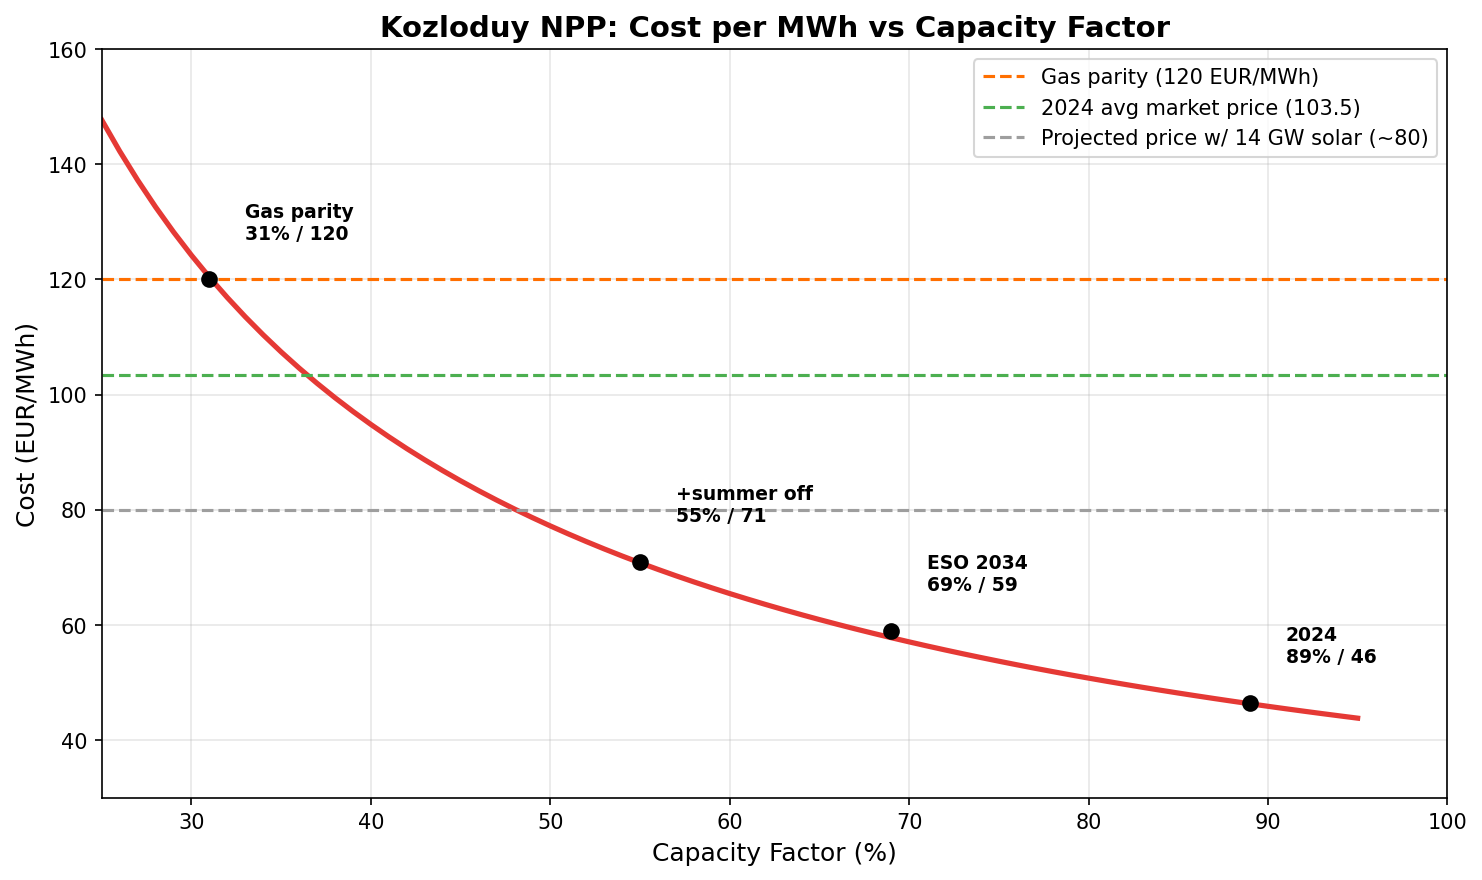
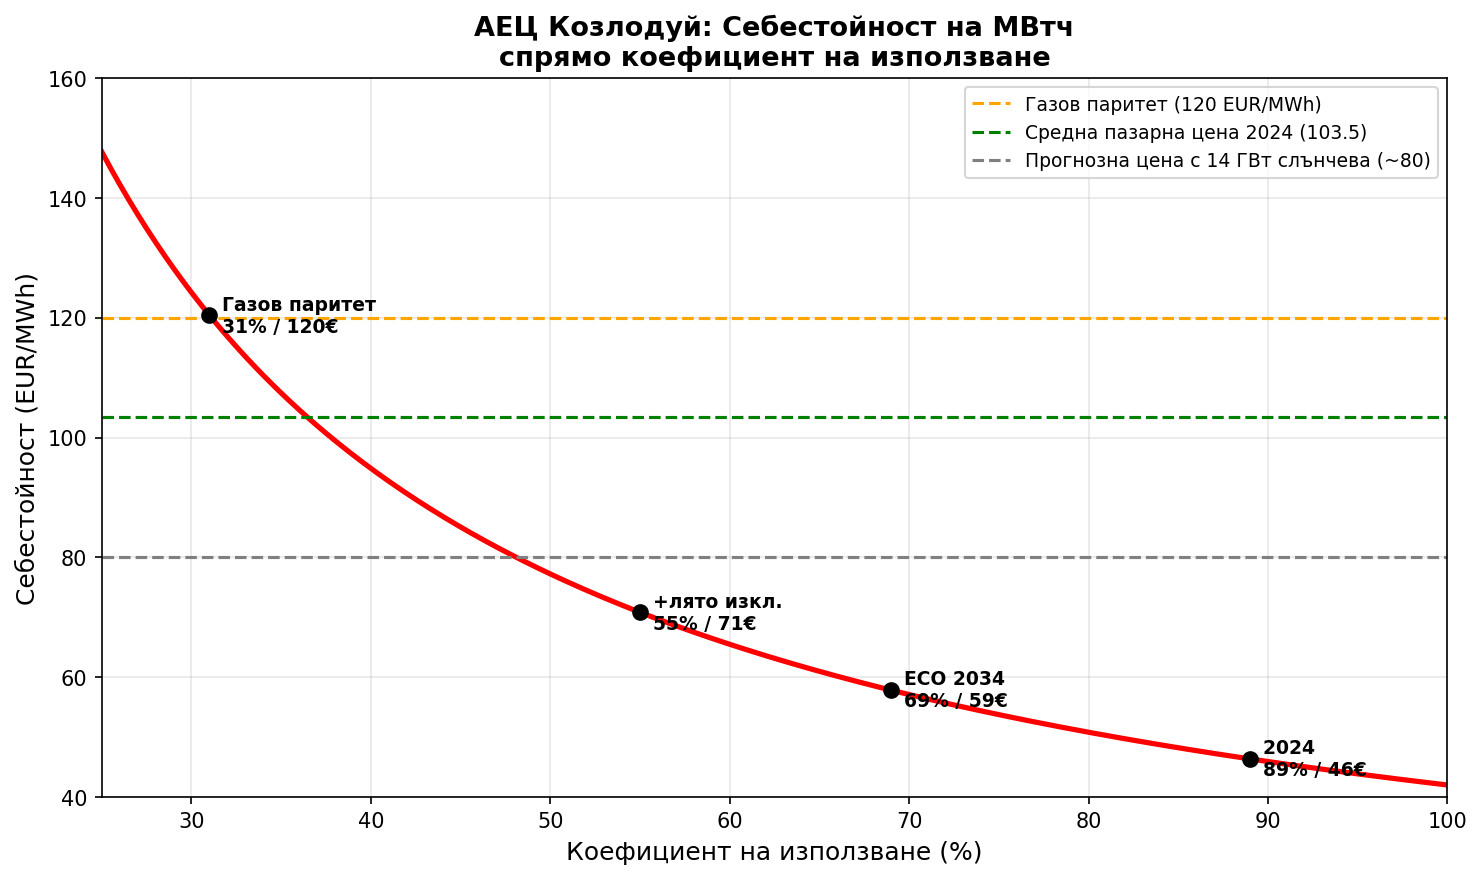
Translate all 3 charts to Bulgarian
- АЕЦ Козлодуй: себестойност на МВтч спрямо коефициент на използване
- 15 февруари 2026: България срещу Румъния — цени
- Ядрена печалба по оперативна стратегия

Add make_charts_bg.py as the canonical chart generation script

diff --git a/make_charts_bg.py b/make_charts_bg.py
@@ -1,0 +1,312 @@
+#!/usr/bin/env python3
+"""
+Generate the 3 article charts with Bulgarian labels.
+
+Charts produced:
+  charts/cost_vs_cf.png         — себестойност спрямо коефициент на използване
+  charts/feb15_2026_prices.png  — цени на 15 февруари 2026
+  charts/strategy_comparison.png — печалба по стратегия
+"""
+import json
+import numpy as np
+import matplotlib
+matplotlib.use('Agg')
+import matplotlib.pyplot as plt
+from datetime import datetime, timedelta
+from collections import defaultdict
+
+CHART_DIR = '/home/yyoncho/Sources/claude/nuclear-economics-bg/charts'
+
+# ── shared helpers ──────────────────────────────────────────────────────────
+
+def get_text(v):
+    if isinstance(v, dict):
+        return v.get('text', '') or v.get('#text', '')
+    return str(v) if v else ''
+
+def ensure_list(obj):
+    if obj is None:
+        return []
+    if isinstance(obj, list):
+        return obj
+    return [obj]
+
+def load_entsoe_prices(path):
+    with open(path) as f:
+        d = json.load(f)
+    prices = {}
+    for ts in ensure_list(d.get('prices', {}).get('TimeSeries', [])):
+        for p in ensure_list(ts.get('Period', {})):
+            ti = p.get('timeInterval', {})
+            start = get_text(ti.get('start', '')) if isinstance(ti, dict) else ''
+            if not start:
+                continue
+            start_dt = datetime.fromisoformat(start.replace('Z', '+00:00'))
+            for pt in ensure_list(p.get('Point', [])):
+                pos = int(get_text(pt.get('position', '0')))
+                price_raw = pt.get('price.amount')
+                if price_raw is None:
+                    price_raw = pt.get('price', {})
+                val = float(get_text(price_raw))
+                hour_dt = start_dt + timedelta(hours=pos - 1)
+                key = hour_dt.strftime('%Y-%m-%d %H:00')
+                prices[key] = val
+    return prices
+
+
+# ── Chart 1: Себестойност на МВтч спрямо коефициент на използване ──────────
+
+NUCLEAR_FIXED_EUR = 617e6
+NUCLEAR_VAR_EUR_MWH = 6.8
+NUCLEAR_NAMEPLATE_MW = 2000
+HOURS_YEAR = 8760
+
+cfs = np.linspace(0.25, 1.0, 300)
+output_mwh = cfs * NUCLEAR_NAMEPLATE_MW * HOURS_YEAR
+cost_per_mwh = (NUCLEAR_FIXED_EUR + NUCLEAR_VAR_EUR_MWH * output_mwh) / output_mwh
+
+fig, ax = plt.subplots(figsize=(10, 6))
+ax.plot(cfs * 100, cost_per_mwh, 'r-', linewidth=2.5)
+
+# Reference lines
+ax.axhline(y=120, color='orange', linestyle='--', linewidth=1.5,
+           label='Газов паритет (120 EUR/MWh)')
+ax.axhline(y=103.5, color='green', linestyle='--', linewidth=1.5,
+           label='Средна пазарна цена 2024 (103.5)')
+ax.axhline(y=80, color='gray', linestyle='--', linewidth=1.5,
+           label='Прогнозна цена с 14 ГВт слънчева (~80)')
+
+# Key points
+key_points = [
+    (0.31, '  Газов паритет\n  31% / 120€'),
+    (0.55, '  +лято изкл.\n  55% / 71€'),
+    (0.69, '  ЕСО 2034\n  69% / 59€'),
+    (0.89, '  2024\n  89% / 46€'),
+]
+for cf_val, label in key_points:
+    out = cf_val * NUCLEAR_NAMEPLATE_MW * HOURS_YEAR
+    cost = (NUCLEAR_FIXED_EUR + NUCLEAR_VAR_EUR_MWH * out) / out
+    ax.plot(cf_val * 100, cost, 'ko', markersize=7)
+    ax.annotate(label, xy=(cf_val * 100, cost), fontsize=9, fontweight='bold',
+                va='center')
+
+ax.set_xlabel('Коефициент на използване (%)', fontsize=12)
+ax.set_ylabel('Себестойност (EUR/MWh)', fontsize=12)
+ax.set_title('АЕЦ Козлодуй: Себестойност на МВтч\nспрямо коефициент на използване',
+             fontsize=13, fontweight='bold')
+ax.legend(fontsize=9, loc='upper right')
+ax.set_xlim(25, 100)
+ax.set_ylim(40, 160)
+ax.grid(True, alpha=0.3)
+plt.tight_layout()
+plt.savefig(f'{CHART_DIR}/cost_vs_cf.png', dpi=150, bbox_inches='tight')
+plt.close()
+print(f'Saved: {CHART_DIR}/cost_vs_cf.png')
+
+
+# ── Chart 2: 15 февруари 2026 — България срещу Румъния ──────────────────────
+
+bg_prices = load_entsoe_prices('/home/yyoncho/Sources/claude/entso-e/data/BG/2026.json')
+ro_prices = load_entsoe_prices('/home/yyoncho/Sources/claude/entso-e/data/RO/2026.json')
+
+feb15_bg = {k: v for k, v in bg_prices.items() if k.startswith('2026-02-15')}
+feb15_ro = {k: v for k, v in ro_prices.items() if k.startswith('2026-02-15')}
+
+hours_list = sorted(feb15_bg.keys())
+bg_vals = [feb15_bg[k] for k in hours_list]
+ro_vals = [feb15_ro[k] for k in hours_list]
+hour_nums = list(range(len(hours_list)))
+
+avg_bg = np.mean(bg_vals)
+avg_ro = np.mean(ro_vals)
+
+fig, ax = plt.subplots(figsize=(12, 5))
+ax.fill_between(hour_nums, ro_vals, alpha=0.25, color='steelblue')
+ax.fill_between(hour_nums, bg_vals, alpha=0.35, color='slategray')
+ax.plot(hour_nums, bg_vals, 'r-o', linewidth=2, markersize=5, label='България')
+ax.plot(hour_nums, ro_vals, 'b-s', linewidth=2, markersize=5, label='Румъния')
+
+ax.text(9, avg_ro + 8, f'RO ср.: {avg_ro:.1f} EUR', color='blue',
+        fontsize=11, fontweight='bold')
+ax.text(3, avg_bg + 8, f'BG ср.: {avg_bg:.1f} EUR', color='red',
+        fontsize=11, fontweight='bold')
+
+ax.set_xlabel('Час на деня', fontsize=12)
+ax.set_ylabel('Цена ден напред (EUR/MWh)', fontsize=12)
+ax.set_title('15 февруари 2026: България срещу Румъния — Цени', fontsize=13, fontweight='bold')
+ax.legend(fontsize=11)
+ax.set_xticks(hour_nums)
+ax.set_xticklabels([str(h) for h in hour_nums], fontsize=8)
+ax.grid(True, alpha=0.3)
+plt.tight_layout()
+plt.savefig(f'{CHART_DIR}/feb15_2026_prices.png', dpi=150, bbox_inches='tight')
+plt.close()
+print(f'Saved: {CHART_DIR}/feb15_2026_prices.png')
+
+
+# ── Chart 3: Ядрена печалба по оперативна стратегия ─────────────────────────
+# Re-run the model to get fresh scenario data
+
+NUCLEAR_FIXED_EUR_MODEL = 617e6
+NUCLEAR_VAR_EUR_MWH_MODEL = 6.8
+NUCLEAR_NAMEPLATE_MW_MODEL = 2000
+COAL_FULL_COST = 88
+MERIT_SLOPE = 0.018
+BASE_SOLAR_GW = 5.3
+
+with open('/home/yyoncho/Sources/claude/nuclear-economics-bg/data/2025.json') as f:
+    data = json.load(f)
+hours_data = [h for h in data['hours'] if h.get('demand') and h.get('price') is not None]
+
+
+def get_month(h):
+    return int(h['t'][5:7])
+
+
+def get_hour_num(h):
+    return int(h['t'][11:13])
+
+
+def is_weekend(h):
+    dt = datetime.fromisoformat(h['t'].replace('Z', '+00:00'))
+    return dt.weekday() >= 5
+
+
+def model_prices(hours, solar_gw, battery_gwh):
+    solar_factor = solar_gw / BASE_SOLAR_GW
+    results = []
+    for h in hours:
+        solar_base = h.get('solar', 0) or 0
+        solar_new = solar_base * solar_factor
+        extra_solar = solar_new - solar_base
+        demand = h['demand']
+        price = h['price']
+
+        nuc_actual = h.get('nuclear', 0) or 0
+        nuc_shortfall = max(0, NUCLEAR_NAMEPLATE_MW_MODEL - nuc_actual)
+        price = max(0, price - nuc_shortfall * MERIT_SLOPE)
+
+        price_adj = max(price - extra_solar * MERIT_SLOPE, 0)
+        results.append({
+            't': h['t'], 'price': price_adj, 'demand': demand,
+            'solar': solar_new, 'month': get_month(h),
+            'hour': get_hour_num(h), 'weekend': is_weekend(h),
+            'nuclear': h.get('nuclear', 0) or 0,
+        })
+
+    if battery_gwh > 0:
+        battery_mwh = battery_gwh * 1000
+        battery_power_mw = battery_mwh / 4
+        efficiency = 0.875
+        CHARGE_THRESHOLD = 20
+        discharge_impact = battery_power_mw * MERIT_SLOPE
+        daily = defaultdict(list)
+        for i, h in enumerate(results):
+            daily[h['t'][:10]].append(i)
+        for day, indices in daily.items():
+            cheap_hours = sum(1 for idx in indices if results[idx]['price'] <= CHARGE_THRESHOLD)
+            charge_energy = min(battery_mwh, cheap_hours * battery_power_mw)
+            available_energy = charge_energy * efficiency
+            if available_energy <= 0:
+                continue
+            expensive = sorted(
+                [(idx, results[idx]['price']) for idx in indices],
+                key=lambda x: -x[1]
+            )
+            remaining = available_energy
+            for idx, price in expensive:
+                if remaining <= 0:
+                    break
+                discharge = min(battery_power_mw, remaining)
+                new_price = max(0, price - discharge * MERIT_SLOPE)
+                if new_price >= price:
+                    continue
+                results[idx]['price'] = new_price
+                remaining -= discharge
+    return results
+
+
+def compute_nuclear_economics(price_hours, strategy='full'):
+    summer = {6, 7, 8}
+    extended = {5, 6, 7, 8, 9}
+    shoulder = {4, 5, 9}
+    total_revenue = 0
+    total_output_mwh = 0
+    for h in price_hours:
+        month = h['month']
+        price = h['price']
+        if strategy == 'full':
+            nuc_mw = NUCLEAR_NAMEPLATE_MW_MODEL
+        elif strategy == 'reduced_summer':
+            nuc_mw = 1400 if month in summer else NUCLEAR_NAMEPLATE_MW_MODEL
+        elif strategy == 'reduced_extended':
+            nuc_mw = 1400 if month in extended else NUCLEAR_NAMEPLATE_MW_MODEL
+        elif strategy == 'one_off_summer':
+            nuc_mw = 1000 if month in summer else NUCLEAR_NAMEPLATE_MW_MODEL
+        elif strategy == 'one_off_extended':
+            nuc_mw = 1000 if month in extended else NUCLEAR_NAMEPLATE_MW_MODEL
+        elif strategy == 'combo':
+            if month in summer:
+                nuc_mw = 1000
+            elif month in shoulder:
+                nuc_mw = 1400
+            else:
+                nuc_mw = NUCLEAR_NAMEPLATE_MW_MODEL
+        else:
+            nuc_mw = NUCLEAR_NAMEPLATE_MW_MODEL
+        total_revenue += price * nuc_mw
+        total_output_mwh += nuc_mw
+    total_cost = NUCLEAR_FIXED_EUR_MODEL + NUCLEAR_VAR_EUR_MWH_MODEL * total_output_mwh
+    cf = total_output_mwh / (NUCLEAR_NAMEPLATE_MW_MODEL * len(price_hours))
+    return {
+        'profit': total_revenue - total_cost,
+        'cf': cf,
+    }
+
+
+strategies_bg = [
+    ('full',             '2×1000 МВт\nцелогодишно'),
+    ('reduced_summer',   'Намалено 1400 МВт\nюни–авг.'),
+    ('reduced_extended', 'Намалено 1400 МВт\nмай–сеп.'),
+    ('one_off_summer',   '1 реактор изкл.\nюни–авг.'),
+    ('one_off_extended', '1 реактор изкл.\nмай–сеп.'),
+    ('combo',            '1 изкл. юни–авг.\n+ нам. рамо'),
+]
+
+strat_scenarios = [(14.3, 16), (14.3, 32), (20, 16), (20, 32)]
+strat_titles_bg = [
+    '14.3 ГВт + 16 ГВтч (ЕСО 2034)',
+    '14.3 ГВт + 32 ГВтч',
+    '20 ГВт + 16 ГВтч',
+    '20 ГВт + 32 ГВтч',
+]
+
+fig, axes = plt.subplots(2, 2, figsize=(16, 10))
+for ax, (sg, bg), title in zip(axes.flat, strat_scenarios, strat_titles_bg):
+    ph = model_prices(hours_data, sg, bg)
+    names, profits, cfs = [], [], []
+    for strat_key, strat_name in strategies_bg:
+        econ = compute_nuclear_economics(ph, strat_key)
+        names.append(strat_name)
+        profits.append(econ['profit'] / 1e6)
+        cfs.append(econ['cf'] * 100)
+
+    colors = ['green' if p > 0 else 'red' for p in profits]
+    bars = ax.bar(range(len(names)), profits, color=colors, alpha=0.7, edgecolor='black')
+    ax.set_xticks(range(len(names)))
+    ax.set_xticklabels(names, fontsize=7.5, ha='center')
+    ax.axhline(y=0, color='black', linewidth=1)
+    ax.set_ylabel('М EUR')
+    ax.set_title(title, fontsize=11, fontweight='bold')
+    for bar, p, c in zip(bars, profits, cfs):
+        ypos = bar.get_height() + 3 if p >= 0 else bar.get_height() - 12
+        ax.text(bar.get_x() + bar.get_width() / 2, ypos,
+                f'{p:+.0f}М\n{c:.0f}%КИ', ha='center', fontsize=8, fontweight='bold')
+
+fig.suptitle('Ядрена печалба по оперативна стратегия', fontsize=14, fontweight='bold')
+plt.tight_layout()
+plt.savefig(f'{CHART_DIR}/strategy_comparison.png', dpi=150, bbox_inches='tight')
+plt.close()
+print(f'Saved: {CHART_DIR}/strategy_comparison.png')
+
+print('\n✓ Всички графики запазени в', CHART_DIR)
